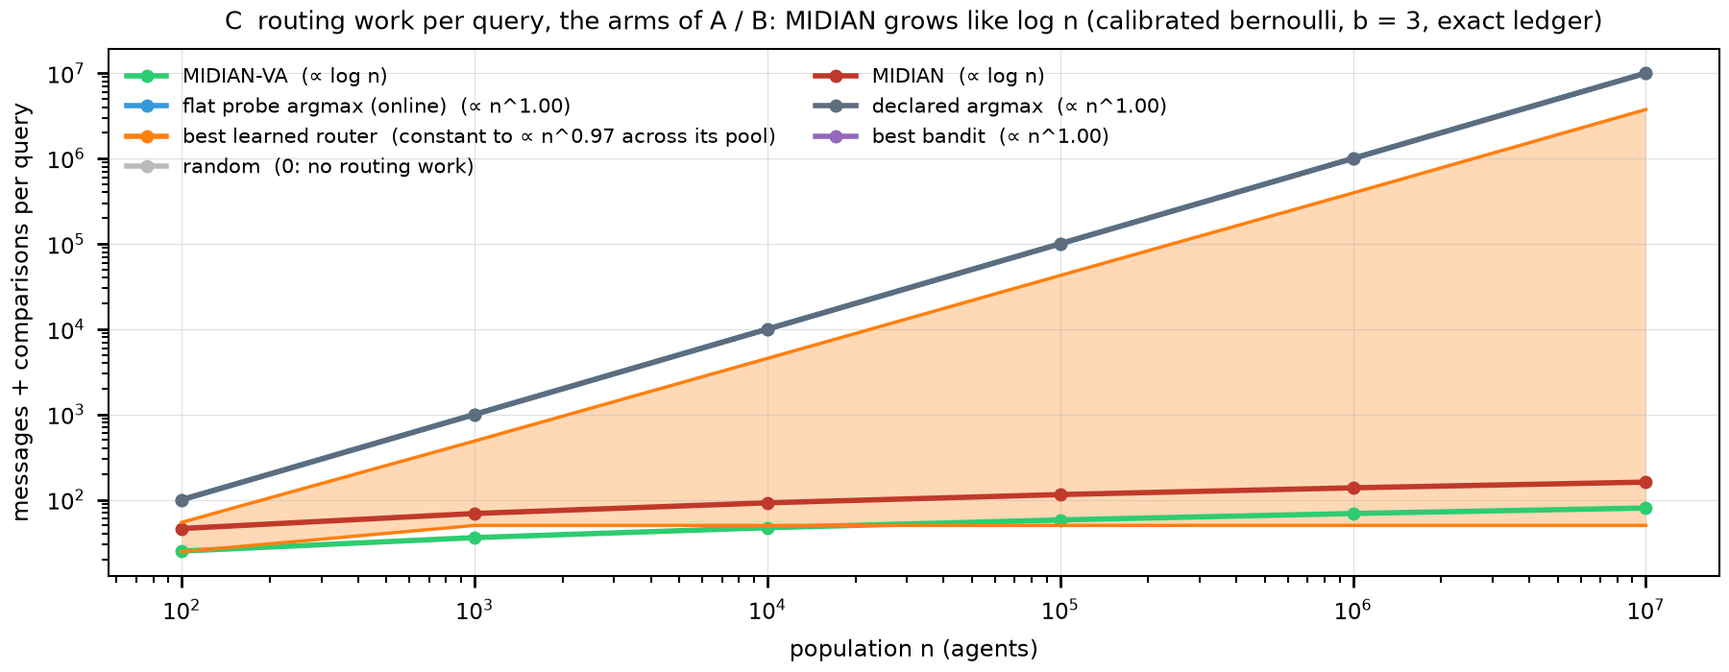
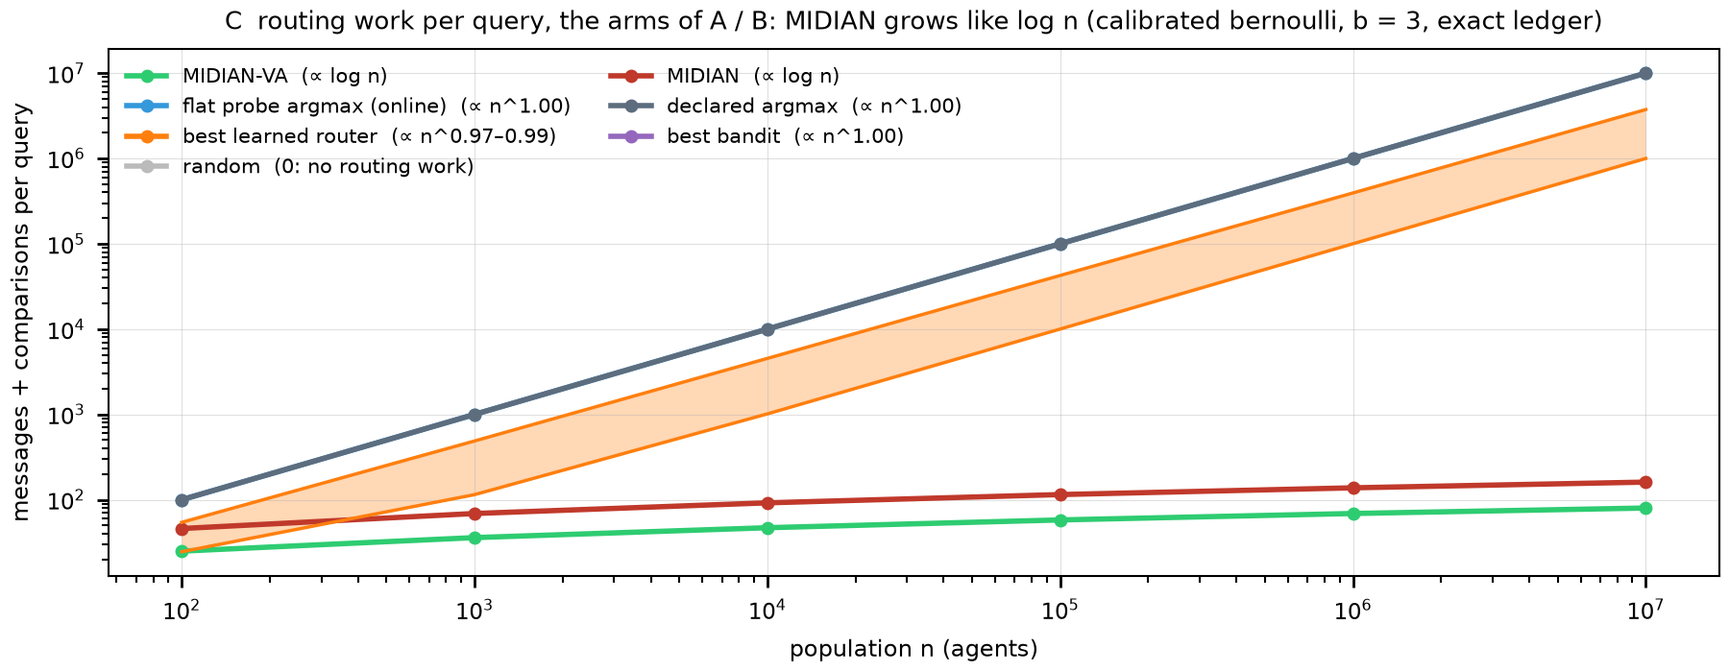
Figure C: pool bands exclude constant-cost members (flat-NSW); guide Part 6 with learned-router pick counts

Changed region(s): [[0.0933, 0.24, 0.9644, 0.84], [0.2178, 0.15, 0.6844, 0.21], [0.3422, 0.09, 0.5911, 0.12]]

diff --git a/scripts/efficiency_figs.py b/scripts/efficiency_figs.py
@@ -76,11 +76,13 @@ def draw_I(ax, d):
             ax.plot([], [], "o-", ms=3, lw=1.6, color=c, label=f"{name}  (0: no routing work)"); continue
         if k in POOLS:
             q = d[d.label.isin(POOLS[k]) & ~pd.Series([l in NOT_RUNNABLE("bernoulli", n) for l, n in zip(d.label, d.n)], index=d.index)]
-            q = q[q.n >= 100].groupby("n").work.agg(["min", "max"]).reset_index()
+            flat = [l for l, g in q[q.n >= 100].groupby("label") if growth(slope(g)) == "constant"]   # flat_nsw: majority pick in 2 of 29 A/B bars
+            q = q[(q.n >= 100) & ~q.label.isin(flat)].groupby("n").work.agg(["min", "max"]).reset_index()
             lo, hi = slope(q.rename(columns={"min": "work"})), slope(q.rename(columns={"max": "work"}))
             ax.fill_between(q.n, q["min"], q["max"], color=c, alpha=0.3, lw=0)
             for e in ("min", "max"): ax.plot(q.n, q[e], "-", lw=1.0, color=c)
-            span = growth(lo) if growth(lo) == growth(hi) else f"{growth(lo)} to {growth(hi)} across its pool"
+            a, z = sorted((lo, hi))
+            span = growth(lo) if growth(lo) == growth(hi) else f"∝ n^{a:.2f}–{z:.2f}" if a >= 0.3 else f"{growth(lo)} to {growth(hi)} across its pool"
             ax.plot([], [], "o-", ms=3, lw=1.6, color=c, label=f"{name}  ({span})")
             rec += [dict(arm=name, n=int(n), work=w, work_max=m, slope=lo, slope_max=hi) for n, w, m in zip(q.n, q["min"], q["max"])]
             continue

diff --git a/docs/FIGURE_DATA_GUIDE.md b/docs/FIGURE_DATA_GUIDE.md
@@ -4,9 +4,9 @@ A reference for anyone who has to write about figures A, B, C, D, E, F, G and H 
 and marker it says what the number is, which grids and cells and seeds it comes from, how it is averaged, and how each
 method and backend behind it is implemented. It was written from the code, not from the project's markdown docs. Where the
 two disagree, the code is taken as correct and the disagreement is listed. Citations are `path:line` in `~/rte` at the
-working tree of 2026-09-23 ~02:30 EDT; Part 6 (C and D) and every `scripts/condensed_figs.py` citation are against the
-tree of ~12:30 EDT the same day. Figure values are those of the CSVs now in `figures/condensed_sample/` (A and B written
-02:05–02:06, C and D 12:26, E–H 01:52). Result and seed counts are a snapshot from the same time: runs are still landing.
+working tree of 2026-09-23 ~02:30 EDT; every `scripts/condensed_figs.py` citation is against the tree of ~12:30 EDT the
+same day, and Part 6 (C and D) against that of ~12:50. Figure values are those of the CSVs now in `figures/condensed_sample/` (A and B written
+02:05–02:06, C 12:48, D 12:49, E–H 01:52). Result and seed counts are a snapshot from the same time: runs are still landing.
 
 **How it was built.** Six independent passes, one per part, each re-reading the code and re-deriving plotted numbers from
 the raw rows (`$RTE_DATA/results/<grid>/rows.csv` + `rows.d/`). Each pass ends with its own list of discrepancies. Part 0
@@ -43,7 +43,9 @@ the raw rows (`$RTE_DATA/results/<grid>/rows.csv` + `rows.d/`). Each pass ends w
   and colours are used.
   - MIDIAN-VA, MIDIAN, flat probe argmax and declared argmax are one line each.
   - "Best learned router" and "best bandit" are bands from the cheapest to the costliest pool member that can run at that n.
-    Learned runs from 24.6 / 50 (cluster head, flat-NSW) up to about n (DisRouter). Bandit is exactly n.
+    A member whose own work is constant in n is left out of the band; only the flat-NSW router is. Learned runs from
+    cluster head (24.6 at 10², about n/10 at 10⁷) to DisRouter (about 0.37·n at 10⁷), legend "∝ n^0.97–0.99". Bandit is
+    exactly n. Flat-NSW is still a candidate in A and B's cross-fit, so the learned band is not the whole pool.
   - Random is a legend entry only (no routing work).
   - The legend classifies each fitted log-log slope over n ≥ 10³ as "constant", "∝ log n" or "∝ n^s".
   - MIDIAN-VA goes 25 → 80 and MIDIAN 46 → 161, a fixed step per tree level: linear in depth, ∝ log n. Flat probe argmax,
@@ -112,7 +114,7 @@ Severity: **H** = can change a conclusion, **M** = comparability or labelling ca
 | 18 | **Live declarations are the model's own self-rating** (mean 0.686 vs true 0.419, correlation 0.36). On live, the description text includes an honest "Declared areas" clause that lying does not change (erratum 27), which helps every text shortlist. | E, F | M | §1.3, §3.9 #15 |
 | 19 | **Supervisor picks are not bit-reproducible on the real fleet:** random replica per call, no seed sent, batched vLLM. Pick-level run-to-run variance is unmeasured. | E–H | M | §3.9 #8 |
 | 20 | **RouterEval m ≤ 1,000 rows written before the family-order tie-break may come from the other of two subject orders**, so cross-grid pairing there is noisier than it looks. | H | M | §1.10 #1 |
-| 21 | **D's advantage is over the frameworks, not over flat probing.** Flat probe argmax pays an n·K·b build (MIDIAN-VA 3–5 % more) and 1e-5 to 0.1 J per query (n comparisons), so its curve would sit on MIDIAN-VA's. The advantage over flat methods is C's routing work. The constant floor of C's learned band is the flat-NSW index router, a centralised index, and B's cross-fit never picks it at bernoulli 10⁷ (it picks cluster head or DisRouter, order-n work). | C, D | H | §6.2, §6.4 #3–4 |
+| 21 | **D's advantage is over the frameworks, not over flat probing.** Flat probe argmax pays an n·K·b build (MIDIAN-VA 3–5 % more) and 1e-5 to 0.1 J per query (n comparisons), so its curve would sit on MIDIAN-VA's. The advantage over flat methods is C's routing work. C's learned band leaves out the flat-NSW index router, a centralised index whose cost is constant (50). It is still a candidate in A and B's cross-fit, where it is the majority pick in 2 of 29 bars (replay 10⁶ cartel, b = 3 and 5). The drawn band, cluster head to DisRouter, grows like n^0.97–0.99. | C, D | H | §6.2, §6.4 #3–4 |
 | 22 | **D's framework band is a live n = 1,000 measurement applied at every n**, pooled over all β and all three population shapes. Its upper edge is Magentic-One at 10.7 supervisor call-equivalents, a latency ratio to AutoGen rather than a count of calls. The mean latency is used, not the median the `energy.py` comments name, and there is no erratum-28 quarantine. The frameworks' retrieval scan over n descriptions and their n-message registration are not charged. | D | M | §6.4 #5–7 |
 | 23 | **D mixes sources.** Build probes at n = 10⁷ are bernoulli ledger counts, each priced at the live specialist probe energy (4.04 J), while 10³ and 10⁵ use live ledgers. Every row's `build_source` says "ledger" either way. | D | M | §6.4 #1–2 |
 
@@ -3204,15 +3206,16 @@ cosmetic or documentation only.
 
 ## 6. Figures C and D: routing work and energy per query
 
-Scope: `figures/condensed_sample/C_routing_work_vs_n.{png,pdf,csv}` and `D_energy_per_query.{png,pdf,csv}`, both written
-at **2026-09-23 12:26** by `python scripts/efficiency_figs.py` (131 lines). That script imports `scripts/energy.py`
+Scope: `figures/condensed_sample/C_routing_work_vs_n.{png,pdf,csv}` and `D_energy_per_query.{png,pdf,csv}`, written
+at **2026-09-23 12:48** (C) and **12:49** (D) by `python scripts/efficiency_figs.py` (133 lines). The run reused the
+ledger cache `cost_by_n.csv` written at 12:26 (§6.1.1). That script imports `scripts/energy.py`
 (130 lines) for the energy model and the framework numbers. It also takes `ARMS`, `BANDIT`, `LEARNED`, `NOT_RUNNABLE`,
 `OUT`, `POOLS` and `save` from `scripts/condensed_figs.py` (`efficiency_figs.py:18`), `label` from `scripts/seed_tables.py` (`:17`) and the legend rule
 from `scripts/extra_figs.py` (`:16`). Importing `condensed_figs` also applies its rcParams (`condensed_figs.py:27-28`), so C
 and D share A and B's fonts. Line citations in this part are to `efficiency_figs.py` unless another file is named.
 
 **How this part was checked (read-only).**
-- The C CSV was compared with `cost_by_n.csv`. The cache itself was re-derived from `bernoulli_scale_v5/rows.csv`
+- The C CSV was re-derived from `cost_by_n.csv`, including the flat-NSW exclusion and both edges' slopes. The cache itself was re-derived from `bernoulli_scale_v5/rows.csv`
   (medians, row counts and the across-seed ranges of every pool member): all 83 rows agree.
 - Every D row was re-derived from the cache and the energy constants (`build_J`, `marginal_J` to 1e-6 J).
 - The `va_build` inputs were re-read from the five grids, with row counts per source, and `va_build` itself was called on
@@ -3254,8 +3257,8 @@ and D share A and B's fonts. Line citations in this part are to `efficiency_figs
   example, at n = 10^7 the per-seed range is 1,000,011–1,000,018 and 3,471,301–4,023,174. Among build counts, only
   MIDIAN-VA's `build_probes` varies (e.g. 49,325–49,586 at n = 10^3).
 - **Caching.** When the file exists it is read back and the rows are not touched (`:28`). The docstring says to delete it
-  to re-read (`:10`). The current file was written at 12:26, in the same run as the figures. It covers n = 10 … 10^7; C
-  draws n ≥ 100 at b = 3 (`:73`, `:79`, `:87`).
+  to re-read (`:10`). The current file was written at 12:26 and reused for the 12:48 figures. It covers n = 10 … 10^7; C
+  draws n ≥ 100 at b = 3 (`:73`, `:80`, `:89`).
 - **Arms, labels and colours.** C draws exactly A and B's `ARMS` (`condensed_figs.py:31-33`), in that order and with the
   same labels and colours (`:74`): MIDIAN-VA `#2ecc71`, MIDIAN `#c0392b`, flat probe argmax (online) `#3498db`, best learned
   router `#ff7f0e`, best bandit `#9467bd`, declared argmax `#5d6d7e`, random `#bbbbbb`. The oracle and the frameworks are
@@ -3285,48 +3288,54 @@ amounts (§6.3.2: 1e-3 J against 1e-8 J).
 **Question answered.** For the arms of A and B, how does the communication and computation a router spends on each query
 grow with the population n? In particular, how do MIDIAN and MIDIAN-VA compare with flat arms that scan every agent?
 
-**What is drawn** (`draw_I`, `:70-94`):
-- **Single arms** (MIDIAN-VA, MIDIAN, flat probe argmax, declared argmax; `:87-89`). One line each: circle markers (ms 3),
+**What is drawn** (`draw_I`, `:70-96`):
+- **Single arms** (MIDIAN-VA, MIDIAN, flat probe argmax, declared argmax; `:89-91`). One line each: circle markers (ms 3),
   lw 1.6, at n = 10², 10³ … 10⁷ (b = 3 rows only). There are no error bars.
-- **Pooled arms** (best learned router, best bandit; `:77-86`). A pooled bar in B is a different member per cell and per
+- **Pooled arms** (best learned router, best bandit; `:77-88`). A pooled bar in B is a different member per cell and per
   seed (§2.1.3), so C draws the pool's range instead of one line.
   - At each n ≥ 10², the pool is `POOLS[k]` minus `NOT_RUNNABLE("bernoulli", n)` (`:78`), limited to the members that
     have cache rows.
-  - The band spans the smallest to the largest member's work at that n (`:79`). It is filled in the arm's colour at α 0.3
-    (`:81`), with a lw 1.0 line along each edge (`:82`). There are no markers.
+  - **Constant-cost members are left out** (`:79`). A member whose own work over n ≥ 10² has `growth(slope) ==
+    "constant"` is dropped from the band at every n. Only `flat_nsw_router` qualifies: its work is ef = 50 at every n, slope
+    about 0. Its cost is constant, so the band would otherwise run from a flat floor, and the cross-fit rarely picks it
+    (majority pick in 2 of 29 A / B bars; table below). Every bandit member is n, so nothing is dropped from that pool.
+  - The band spans the smallest to the largest remaining member's work at that n (`:80`). It is filled in the arm's
+    colour at α 0.3 (`:82`), with a lw 1.0 line along each edge (`:83`). There are no markers.
   - The pools' CSV rows hold the lower edge in `work` and the upper edge in `work_max`, with a slope for each (`slope`,
-    `slope_max`, `:85`).
+    `slope_max`, `:87`).
 - **Random** (`:75-76`) routes blindly and does no routing work, which a log axis cannot show. It gets a legend entry only:
   "random  (0: no routing work)". It has no CSV rows.
 - **Overlap.** Flat probe argmax, declared argmax and the whole best-bandit band are exactly n at every n. Every bandit
   member is n, so the band has zero height and both its edges lie on the line. Declared argmax is drawn after them in
   `ARMS` order, so only its grey line shows. Blue (flat) and the purple bandit edges are underneath.
-- Both axes are log (`:90`). x = "population n (agents)", y = "messages + comparisons per query". The major grid is lw
-  0.3, α 0.4 (`:91`).
-- **Legend** (`:93`): two columns, top left, font 6.
-  - A single arm's entry is `name  (growth)` (`:89`). `growth(s)` (`:65-67`) turns the fitted slope s into words:
+- Both axes are log (`:92`). x = "population n (agents)", y = "messages + comparisons per query". The major grid is lw
+  0.3, α 0.4 (`:93`).
+- **Legend** (`:95`): two columns, top left, font 6.
+  - A single arm's entry is `name  (growth)` (`:91`). `growth(s)` (`:65-67`) turns the fitted slope s into words:
     "constant" if |s| < 0.02, "∝ log n" if s < 0.3, otherwise "∝ n^s" with two decimals.
-  - A pool's entry (`:83-84`) gives `growth` of both edges' slopes: one phrase if they agree, else "X to Y across its
-    pool". Its handle is an empty line in the arm's colour, with a marker.
+  - A pool's entry (`:84-86`) gives `growth` of both edges' slopes. If the two phrases agree it is that phrase. Else,
+    if both slopes are ≥ 0.3, it is a range "∝ n^a–z" with the smaller slope first, two decimals. Else it is "X to Y
+    across its pool". Its handle is an empty line in the arm's colour, with a marker.
   - The current entries are: MIDIAN-VA (∝ log n), MIDIAN (∝ log n), flat probe argmax (online) (∝ n^1.00), declared
-    argmax (∝ n^1.00), best learned router (constant to ∝ n^0.97 across its pool), best bandit (∝ n^1.00), random (0: no
-    routing work).
+    argmax (∝ n^1.00), best learned router (∝ n^0.97–0.99), best bandit (∝ n^1.00), random (0: no routing work). The
+    learned range runs from the upper edge's slope (0.971) to the lower edge's (0.987).
   - The legend goes through the `extra_figs` wrapper with `rank="asc"` (`extra_figs.py:16-54`). Entries with data are
     sorted by the mean of their plotted y values, lowest first. The two pool handles and random's plot no data, so they
     keep `ARMS` order after the ranked ones. The layout is row-major, and it reads: MIDIAN-VA / MIDIAN, flat probe argmax /
     declared argmax, best learned router / best bandit, random. The pools are therefore placed last whatever their cost.
-- **Title** (`:92`): "C  routing work per query, the arms of A / B: MIDIAN grows like log n (calibrated bernoulli, b = 3,
+- **Title** (`:94`): "C  routing work per query, the arms of A / B: MIDIAN grows like log n (calibrated bernoulli, b = 3,
   exact ledger)".
-- Figure size 7.2 × 2.8 in; PNG at 250 dpi, plus a PDF (`:124-127`, `condensed_figs.py:78-79`).
+- Figure size 7.2 × 2.8 in; PNG at 250 dpi, plus a PDF (`:126-129`, `condensed_figs.py:78-79`).
 
 **The slope** (`slope`, `:60-62`). An ordinary least-squares line through (log₁₀ n, log₁₀ work) for n ≥ 10³ and work > 0,
 via `np.polyfit(..., 1)`. That is five points, n = 10³ … 10⁷; n = 10² is drawn but not fitted. For a pool it is fitted to
-each edge separately (`:80`). The slope goes into the CSV but only picks the legend's wording.
+each edge separately (`:81`). The slope goes into the CSV but only picks the legend's wording.
 - MIDIAN's and MIDIAN-VA's work is 23·depth and 3 + 11·depth (§6.1.2), linear in log n. A power law fitted to such a curve
   has a small slope (0.09) that falls as n grows, so `growth` labels it "∝ log n".
-- The learned band's lower edge is 50 from 10³ on, so it is "constant". Its upper edge (DisRouter) has slope 0.971.
-- The thresholds 0.02 and 0.3 are fixed in the code. The fitted values here are about 0, 0.086–0.091, 0.971 and 1.000,
-  so the thresholds sit far from all of them.
+- The learned band's lower edge (cluster head) has slope 0.987 and its upper edge (DisRouter) 0.971. The flat-NSW
+  router's slope is about 0, which is what removes it from the band.
+- The thresholds 0.02 and 0.3 are fixed in the code. The fitted values here are about 0 (flat-NSW), 0.086–0.091,
+  0.971, 0.987 and 1.000, so the thresholds sit far from all of them.
 
 **Values** (`C_routing_work_vs_n.csv`: columns `arm, n, work, slope, work_max, slope_max`; one row per drawn n per arm;
 random has none):
@@ -3334,43 +3343,73 @@ random has none):
 | n | MIDIAN-VA | MIDIAN | flat probe argmax, declared argmax, best bandit (both edges) | best learned router, lower edge | best learned router, upper edge |
 |---|---|---|---|---|---|
 | 10² | 25 | 46 | 100 | 24.58 (cluster head) | 54.35 (DisRouter) |
-| 10³ | 36 | 69 | 1,000 | 50 (flat NSW) | 488.06 (DisRouter) |
-| 10⁴ | 47 | 92 | 10,000 | 50 (flat NSW) | 4,533.7 (DisRouter) |
-| 10⁵ | 58 | 115 | 100,000 | 50 (flat NSW) | 42,499.9 (DisRouter) |
-| 10⁶ | 69 | 138 | 1,000,000 | 50 (flat NSW) | 394,053.4 (DisRouter) |
-| 10⁷ | 80 | 161 | 10,000,000 | 50 (flat NSW) | 3,742,795.6 (DisRouter) |
-| fitted slope (n ≥ 10³) | 0.0860 | 0.0912 | 1.0000 | −2.6e-17 | 0.9709 |
+| 10³ | 36 | 69 | 1,000 | 114.74 (cluster head) | 488.06 (DisRouter) |
+| 10⁴ | 47 | 92 | 10,000 | 1,014.0 (cluster head) | 4,533.7 (DisRouter) |
+| 10⁵ | 58 | 115 | 100,000 | 10,013.8 (cluster head) | 42,499.9 (DisRouter) |
+| 10⁶ | 69 | 138 | 1,000,000 | 100,013.8 (cluster head) | 394,053.4 (DisRouter) |
+| 10⁷ | 80 | 161 | 10,000,000 | 1,000,013.7 (cluster head) | 3,742,795.6 (DisRouter) |
+| fitted slope (n ≥ 10³) | 0.0860 | 0.0912 | 1.0000 | 0.9875 | 0.9709 |
 
 **Pool members' work per query** (`cost_by_n.csv`, b = 3, medians over seeds; messages + comparisons). "—" means no row.
-The pool at a given n is the members with a value there.
+The pool at a given n is the members with a value there. The band column says whether C draws the member.
 
-| member | pool | 10² | 10³ | 10⁴ | 10⁵ | 10⁶ | 10⁷ |
-|---|---|---|---|---|---|---|---|
-| `cluster_head_router` | learned | 24.58 | 114.74 | 1,014.0 | 10,013.8 | 100,013.8 | 1,000,013.7 |
-| `flat_nsw_router` | learned | 50 | 50 | 50 | 50 | 50 | 50 |
-| `disrouter_cascade` | learned | 54.35 | 488.06 | 4,533.7 | 42,499.9 | 394,053.4 | 3,742,795.6 |
-| `knn_router`, `knn_router_online`, `mlp_router` | learned | — | — | — | — | — | — |
-| `ucb_per_family`, `thompson_per_family`, `warm_start_bandit`, `linucb_honest` | bandit | 100 | 1,000 | 10,000 | 100,000 | 1,000,000 | 10,000,000 |
-| `trueskill_per_family` | bandit | 100 | 1,000 | 10,000 | — | — | — |
-| `warm_start_bandit[n0=0.5]` | bandit | — | — | — | — | — | — |
+| member | pool | in band | 10² | 10³ | 10⁴ | 10⁵ | 10⁶ | 10⁷ |
+|---|---|---|---|---|---|---|---|---|
+| `cluster_head_router` | learned | yes (lower edge) | 24.58 | 114.74 | 1,014.0 | 10,013.8 | 100,013.8 | 1,000,013.7 |
+| `flat_nsw_router` | learned | no (constant) | 50 | 50 | 50 | 50 | 50 | 50 |
+| `disrouter_cascade` | learned | yes (upper edge) | 54.35 | 488.06 | 4,533.7 | 42,499.9 | 394,053.4 | 3,742,795.6 |
+| `knn_router`, `knn_router_online`, `mlp_router` | learned | no rows | — | — | — | — | — | — |
+| `ucb_per_family`, `thompson_per_family`, `warm_start_bandit`, `linucb_honest` | bandit | yes | 100 | 1,000 | 10,000 | 100,000 | 1,000,000 | 10,000,000 |
+| `trueskill_per_family` | bandit | yes | 100 | 1,000 | 10,000 | — | — | — |
+| `warm_start_bandit[n0=0.5]` | bandit | no rows | — | — | — | — | — | — |
+
+`knn_router`, `knn_router_online` and `mlp_router` cannot run on bernoulli, so C has no values for them. Where they did
+run, their work is exactly n per query: 0 messages plus n comparisons. This was checked on every rows.csv that holds
+them (live `learned_n100`, `learned_f1`, `learned_n10k*`, `live_n100k*`, plus RouterEval and LLMRouterBench): the
+minimum and maximum of `messages_per_task + comparisons_per_task` equal n in every row, at n = 10 … 10⁵ for kNN and
+n = 10 … 10³ for MLP (MLP is `NOT_RUNNABLE` from n = 5,000).
 
 **Reading.**
 - At n = 10² the learned band's floor (cluster head, 24.58) is just under MIDIAN-VA (25), and MIDIAN (46) is under the
   flat arms (100).
-- From 10³ the floor is the flat-NSW router's constant 50. MIDIAN-VA is under it up to 10⁴ (47) and over it from 10⁵ (58).
-- The band's ceiling (DisRouter) grows almost like n.
+- From 10³ on, both edges of the learned band are above MIDIAN and MIDIAN-VA and grow almost like n: the floor is about
+  n/10 + 14 (cluster head), the ceiling about 0.37·n at 10⁷ (DisRouter).
+- The flat-NSW router's constant 50, if it were drawn, would sit under MIDIAN-VA up to 10⁴ (47) and over it from 10⁵ (58).
 
 **A band is not the cost of the arm B reports.** B's "best learned router" and "best bandit" bars are the cross-fitted
-pick of one member per seed (§2.1.3). C's band only brackets what the pick could cost.
+pick of one member per seed (§2.1.3). C's band brackets what the pick could cost only among the members it draws.
+- **The band is not the whole pool.** `flat_nsw_router` is left out of C's band, but it is still a candidate in A and
+  B's "best learned router": `POOLS` (`condensed_figs.py:29, 34`) feeds `arms_at` (`condensed_figs.py:60-75`), which
+  calls `seed_tables.crossfit` (`seed_tables.py:84-94`) with the whole runnable pool. A seed that picks it pays 50
+  comparisons per query, below the band.
+- **Who the cross-fit picks.** A snapshot from `A_live_allb.csv` (02:05) and `B_families_allb.csv` (02:06), "best
+  learned router" rows, `chosen` column. It will change when the pool-fill runs land: 17 of these 29 bars are marked
+  INCOMPLETE POOL. The live 10⁵ bars appear in both files and are counted in each. "Majority" is the number of bars
+  whose most-picked member it is. Two LLMRouterBench cartel bars (b = 1 and 5) are 2–2 ties between `mlp_router` and
+  `knn_router_online`; each is counted for the member listed first in `chosen` (`mlp_router` at b = 1,
+  `knn_router_online` at b = 5). "Seed-level" sums the per-seed picks over all 29 bars (929 seeds). Growth is the member's
+  work per query over n: C's cache for the three declared / probe-index members, the live and other ledgers for kNN and
+  MLP (above).
+
+  | member | growth | majority (of 29 bars) | seed-level picks |
+  |---|---|---|---|
+  | `flat_nsw_router` | constant (50) | 2 (replay 10⁶ cartel, b = 3 and 5) | 113 |
+  | `knn_router_online` | n | 12 | 65 |
+  | `cluster_head_router` | ~n^0.99 | 9 | 630 |
+  | `mlp_router` | n | 3 | 14 |
+  | `knn_router` | n | 2 | 6 |
+  | `disrouter_cascade` | ~n^0.97 | 1 | 101 |
+
+  So a constant-cost member is the majority pick in 2 of 29 bars, both on replay; every other bar's majority pick does
+  work of order n.
 - In `B_families_allb.csv` (02:06), bernoulli n = 10⁷ at b = 3 (C's budget):
   - honest best learned router: `cluster_head_router` ×100, about n/10 = 1,000,014 per query, mid-band;
   - cartel best learned router: `disrouter_cascade` ×100, the band's ceiling (3.7M);
   - best bandit: `warm_start_bandit` ×100 in both regimes, n per query.
 - At b = 1, `cluster_head_router` is picked in both regimes. `disrouter_cascade` is missing from that pool (INCOMPLETE).
-- The band's floor, the flat-NSW router (constant 50), is never picked at bernoulli 10⁷.
+- The flat-NSW router (constant 50, not in the band) is never picked at bernoulli 10⁷.
 
-So the arm B reports as "best learned router" does routing work of order n there. It is not the constant-cost router at
-the bottom of the band.
+So the arm B reports as "best learned router" does routing work of order n there.
 
 ### 6.3 Figure D: `D_energy_per_query`
 
@@ -3378,28 +3417,28 @@ the bottom of the band.
 MIDIAN-VA's one-off probing build cost less than a framework that calls a supervisor LLM on every query? How does that
 point move with n and b?
 
-**What is drawn** (`draw_J`, `:97-121`):
-- **x** = queries served T, 200 log-spaced points from 10² to 10⁹ (`:102`). **y** = energy per query in J, with the build
-  amortised (`:117`). Both axes are log. The figure carries no asterisk; the title and y label say "estimated".
-- **MIDIAN-VA lines.** Nine lines, one per (n, b) with n ∈ {10³, 10⁵, 10⁷} and b ∈ {1, 3, 5} (`:107-113`):
+**What is drawn** (`draw_J`, `:99-123`):
+- **x** = queries served T, 200 log-spaced points from 10² to 10⁹ (`:104`). **y** = energy per query in J, with the build
+  amortised (`:119`). Both axes are log. The figure carries no asterisk; the title and y label say "estimated".
+- **MIDIAN-VA lines.** Nine lines, one per (n, b) with n ∈ {10³, 10⁵, 10⁷} and b ∈ {1, 3, 5} (`:109-115`):
   `y(T) = build_J / T + marginal_J`.
   - The shade is the base green `#2ecc71` times (1.35 − s), with s = 0.55 / 0.8 / 1.0 for n = 10³ / 10⁵ / 10⁷. That is ×0.80,
-    ×0.55 and ×0.35: darker means a larger n (`:107`, `:112`).
-  - The line style gives b: dotted `:` for b = 1, solid for b = 3, dashed `--` for b = 5 (`:109`). lw 1.4.
+    ×0.55 and ×0.35: darker means a larger n (`:109`, `:114`).
+  - The line style gives b: dotted `:` for b = 1, solid for b = 3, dashed `--` for b = 5 (`:111`). lw 1.4.
   - As T grows each line falls with slope −1 and flattens at `marginal_J`. At T = 10⁹ only the n = 10³ lines have
     reached their floor, about 0.005 J.
-- **The grey band** (`:104-105`) spans all T, from the cheapest to the costliest framework's per-query energy: 20.60 J
+- **The grey band** (`:106-107`) spans all T, from the cheapest to the costliest framework's per-query energy: 20.60 J
   (AutoGen) to 219.75 J (Magentic-One, 7B). `#bbbbbb`, α 0.5. Legend: "frameworks: 1-10.7 supervisor-call equivalents per
-  query (21-220 J)". The call-equivalent range is the min and max of `sup_call_equiv` over the drawn frameworks (`:103`),
+  query (21-220 J)". The call-equivalent range is the min and max of `sup_call_equiv` over the drawn frameworks (`:105`),
   printed as `.0f` and `.1f`: 1.000 (AutoGen) and 10.673 (Magentic-One). §6.3.3 says what a call-equivalent is.
-- **The ×s** (`:114-115`): black, ms 3, drawn above the lines. Each is at (break-even T, framework J), where a MIDIAN-VA line
+- **The ×s** (`:116-117`): black, ms 3, drawn above the lines. Each is at (break-even T, framework J), where a MIDIAN-VA line
   crosses the lower edge (vs the cheapest framework) or the upper edge (vs the costliest). There are 18: 9 lines × 2 edges.
-- **Legend** (`:120`): four columns above the axes, font 5.5, `rank="asc"`. The lines are ranked by the mean of their y
+- **Legend** (`:122`): four columns above the axes, font 5.5, `rank="asc"`. The lines are ranked by the mean of their y
   values, which is set by build energy, so the order runs from n = 10³, b = 1 to n = 10⁷, b = 5. The band has no y data
   (`extra_figs._plotted` returns None for it), so it comes last. The legend reads, row by row: 10³ b1, 10³ b3, 10³ b5,
   10⁵ b1 / 10⁵ b3, 10⁵ b5, 10⁷ b1, 10⁷ b3 / 10⁷ b5, band.
-- **Title** (`:119`): "D  estimated energy per query: MIDIAN-VA pays one probing build, then ~0.01 J / query; frameworks
-  pay supervisor LLM calls every query". The y label is "estimated energy per query, J (build amortised)" (`:117`).
+- **Title** (`:121`): "D  estimated energy per query: MIDIAN-VA pays one probing build, then ~0.01 J / query; frameworks
+  pay supervisor LLM calls every query". The y label is "estimated energy per query, J (build amortised)" (`:119`).
 
 #### 6.3.1 MIDIAN-VA's build probes (`va_build`, `:40-57`)
 - **Grids read** (`VA_GRIDS`, `:37`): `va_b_bernoulli_1e7`, `va_b_n1000`, `va_b_n100k`, `fw_live_n1000`, `live_n100k`. For
@@ -3456,7 +3495,7 @@ Everything is estimated from call counts, not measured on a power meter. The mod
 
   Per model at 700 W: 0.5B 0.10 J, 1.5B 0.86 J, 2B 0.50 J, 3B 2.87 J, 7B 6.70 J, 9B 3.84 J, 14B 13.40 J.
 - **Watts.** 700 W, the H100 TDP (`WATTS`, `energy.py:9`; `table(watts=700)`, `energy.py:28`). `draw_J` multiplies by 700 itself
-  (`:101`). The 400 W "typical draw" entry is used only in the RESULTS_energy.md table (`energy.py:72`).
+  (`:103`). The 400 W "typical draw" entry is used only in the RESULTS_energy.md table (`energy.py:72`).
 - **Message = 1e-3 J** (`J_MSG`, `energy.py:10`): one RPC handled in about 100 µs on a 10 W core (`energy.py:44`).
 - **Comparison = 1e-8 J** (`J_CMP`, `energy.py:10`): one float compare.
 - **Pessimistic messages.** `table()` also computes `*_pess` columns with 10 × J_MSG = 1e-2 J (`energy.py:45-48`). D
@@ -3466,15 +3505,15 @@ Everything is estimated from call counts, not measured on a power meter. The mod
   CPU-side routing work (tree descent, TF-IDF) is left out of the LLM term (`energy.py:67`). It enters only through the
   ledger's message and comparison counts.
 
-**MIDIAN-VA in D** (`:106-111`):
+**MIDIAN-VA in D** (`:108-113`):
 - `build_J = build_probes · 4.0388 + build_messages · 1e-3`. The build messages are the b = 3 cache value at every b
-  (1,010 / 101,110 / 10,111,110 at n = 10³ / 10⁵ / 10⁷), a rounding term (`:106`, `:111`). Build comparisons are not charged.
+  (1,010 / 101,110 / 10,111,110 at n = 10³ / 10⁵ / 10⁷), a rounding term (`:108`, `:113`). Build comparisons are not charged.
 - `marginal_J = messages_per_task · 1e-3 + comparisons_per_task · 1e-8` from the cache (b = 3). That is 5 msgs + 31 cmp =
   0.00500031 J at 10³, 7 + 51 = 0.00700051 J at 10⁵ and 9 + 71 = 0.00900071 J at 10⁷. It is the same at every b, as the
   ledger's per-query counts are.
 - No LLM term per query: MIDIAN-VA routes without an LLM call and without run-time probes (§2.3.6).
 
-#### 6.3.3 The framework band (`energy.table()`, `energy.py:28-54`; filter at `:99`)
+#### 6.3.3 The framework band (`energy.table()`, `energy.py:28-54`; filter at `:101`)
 - **Rows** (`rows`, `energy.py:21-26`): grids `live_f1_n1000`, `variants_f1` and `fw_live_n1000` at n = 1,000, filtered to
   `declared_source == "self_described"`. The per-method **mean** of each ledger column is taken over every such row. β,
   `dist`, seed and quarantine are not filtered. Every `fw_` row comes from `fw_live_n1000`: 10 seeds × 3 shapes ×
@@ -3485,7 +3524,7 @@ Everything is estimated from call counts, not measured on a power meter. The mod
   the latency a "measured median" (`energy.py:49-50`), but it is the mean over rows. This assumes latency is proportional
   to GPU work. It was measured on a shared fleet.
 - **The 14B Magentic-One arm** would be scaled by 14/7 (`energy.py:36`). D excludes it: `~fw.index.str.contains("supervisor")`
-  (`:99`) drops the `fw_magentic_one{"supervisor":"Qwen/Qwen2.5-14B-Instruct"}` row (8.93 call-equivalents, 367.87 J).
+  (`:101`) drops the `fw_magentic_one{"supervisor":"Qwen/Qwen2.5-14B-Instruct"}` row (8.93 call-equivalents, 367.87 J).
   The band is also restricted to `fw_*` rows, so `llm_supervisor` is not in it.
 - **`per_task_J`** (`energy.py:37, 47`) = `(probes_per_task · probe_cost + call-equivalents · SUP) · 700 +
   messages_per_task · 1e-3 + comparisons_per_task · 1e-8`. For every framework, probes_per_task = 0, messages = 12
@@ -3509,7 +3548,7 @@ Only the two edges are drawn. The per-framework values are not in D's CSV. They 
 edges.
 
 #### 6.3.4 Break-even points
-A MIDIAN-VA line meets a framework level F where build/T + marginal = F, so (`:115`)
+A MIDIAN-VA line meets a framework level F where build/T + marginal = F, so (`:117`)
 
   **T\* = build_J / (F − marginal_J)**.
 
@@ -3545,11 +3584,18 @@ queries per agent at b = 1 / 3 / 5 against AutoGen, and 0.31 / 0.91 / 1.53 again
    cells at 10³ / 10⁵, and 10⁷ b = 5 from `va_b_bernoulli_1e7`), and two are the `bernoulli_scale_v5` sweep at 10⁷ b = 1
    and 3. The table
    in §6.3.1 gives each one's source. The ratio fallback (`:55-56`) is still in the code but unused.
-3. **The learned band's constant floor is the flat-NSW router, which is centralised.** It is an ANN index over flat probe
-   means held in one place (§2.8.3; METHODS.md calls it a verified-centralised arm). It shows that sublinear routing is
-   possible centrally. What MIDIAN adds is routing that is sublinear, decentralised and verified. C does not show that
-   difference, and C leaves out the router's ⌈log₂ n⌉ hops. B never picks it at bernoulli 10⁷ (§6.2), and the band floor
-   is not a cost any drawn bar pays.
+3. **The learned band leaves out the one constant-cost member, the flat-NSW router.** `draw_I` drops any pool member whose
+   own growth over n ≥ 10² is "constant" (`:79`), and only `flat_nsw_router` is (50 comparisons at every n). It is an ANN
+   index over flat probe means held in one place (§2.8.3; METHODS.md calls it a verified-centralised arm). It shows that
+   sublinear routing is possible centrally; what MIDIAN adds is routing that is sublinear, decentralised and verified.
+   - It is left out because its cost is constant and the cross-fit rarely picks it: majority pick in 2 of 29 A / B bars,
+     both replay 10⁶ cartel (b = 3 and 5), and never at bernoulli 10⁷ (§6.2).
+   - It is still a candidate in A and B's cross-fitted "best learned router" (`condensed_figs.py:34`,
+     `seed_tables.py:84-94`). In those two replay bars, and in 113 seed-level picks in all, the arm B reports pays 50
+     per query, below the drawn band. The band is not the whole pool, and a caption should say so.
+   - The pick counts in §6.2 are a 02:06 snapshot. The exclusion rule itself does not depend on them: it reads only C's
+     cache. If the pool-fill runs make flat-NSW a common pick, the band would under-state how cheap the reported arm is.
+   - C also leaves out the router's ⌈log₂ n⌉ hops.
 4. **D's advantage is over the frameworks, not over flat probing.** Flat probe argmax builds with exactly n·K·b probes,
    slightly fewer than MIDIAN-VA's 1.03–1.05 × n·K·b. Its per-query energy is n comparisons: 1e-5 J at 10³, 1e-3 J at 10⁵,
    0.1 J at 10⁷. Its D curve is not drawn. It would lie within a few percent of MIDIAN-VA's: its build is 3–5 % smaller,
@@ -3568,7 +3614,7 @@ queries per agent at b = 1 / 3 / 5 against AutoGen, and 0.31 / 0.91 / 1.53 again
    means of AutoGen's latency range from 0.92 s to 3.13 s. It includes CrewAI and ADK rows that E–H drop (no quarantine
    filter). Only the edges matter for D: AutoGen and Magentic-One.
 7. **Call-equivalents are a latency ratio, not a count of calls.** The legend says "1-10.7 supervisor-call equivalents per
-   query" (`:104-105`). The floor is AutoGen, one call by construction. The 10.7 at the ceiling is Magentic-One's mean latency
+   query" (`:106-107`). The floor is AutoGen, one call by construction. The 10.7 at the ceiling is Magentic-One's mean latency
    divided by AutoGen's (§6.3.3). No call count was recorded.
 8. **Energy is an estimate** (the title and y label say "estimated"). Its uncertain parts: B = 5A is assumed; A rests on one 34 req/s throughput figure;
    7B / 14B probe tokens are 3B proxies; latency stands in for GPU work; 700 W is the TDP. A 400 W draw would scale every
@@ -3576,12 +3622,12 @@ queries per agent at b = 1 / 3 / 5 against AutoGen, and 0.31 / 0.91 / 1.53 again
    together. Messages at 1e-3 J are a guess. The 1e-2 J variant moves T\* by under 0.31 %.
 9. **MIDIAN-VA's build is pooled over regimes and shapes.** `va_build` does not filter β or `dist`. The 10³ b = 3 value
    mixes 3 live shapes and 4 β values. The spread is small (49,368–49,468 at 10³ b = 3), so the effect is under 0.2 %.
-10. **The 10⁵, b = 5 build rests on 3 honest rows.** Those were the rows present at 12:26, and still at 12:32. The cartel b = 5 rows of
+10. **The 10⁵, b = 5 build rests on 3 honest rows.** Those were the rows present at 12:26, and still when D was redrawn at 12:49. The cartel b = 5 rows of
     `va_b_n100k` were still running (§4.3).
 11. **The cache does not refresh itself.** `cost_by_n.csv` is reused until it is deleted (`:28`). The `va_build` grids and
     the framework rows are re-read on every run. A rerun can therefore mix a new build with an old cache. For the counts in
     C this does not matter, because they are deterministic. A cache written before the `b` column was added would fail in
-    `draw_I` (`d.b`, `:73`), so an old file has to be deleted. The current one was rebuilt at 12:26.
+    `draw_I` (`d.b`, `:73`), so an old file has to be deleted. The current one was rebuilt at 12:26 and reused by the 12:48 run.
 12. **Running `efficiency_figs.py` writes to result directories.** `energy.table()` loads through `rte.analyze.load`,
     which consolidates rows.d into rows.csv for `live_f1_n1000`, `variants_f1` and `fw_live_n1000` (`rte/analyze.py:57`),
     unless a grid has a `.merge_owner` file (`rte/run.py:190-191`). Without `RTE_DATA`, the default
